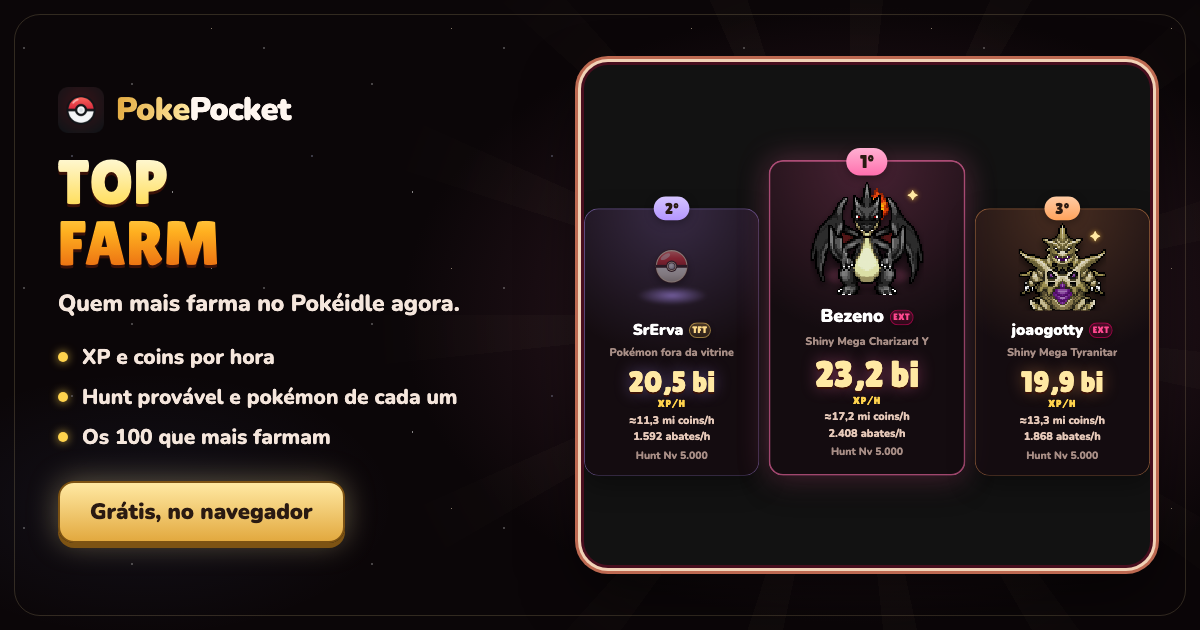
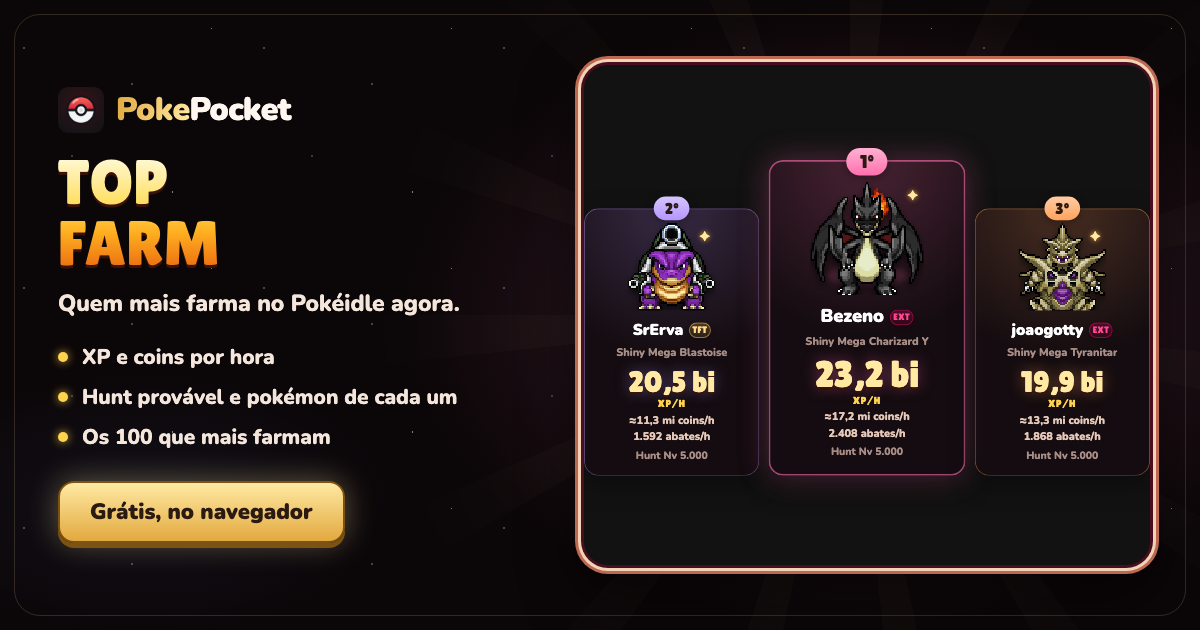
feat(farm): pokémon que farma também pelo time de PvP do perfil, sem nenhum fora da lista

Changed region(s): [[0.5242, 0.3619, 0.6167, 0.5127], [0.4933, 0.5429, 0.6167, 0.573]]

diff --git a/farm/farm.js b/farm/farm.js
@@ -96,9 +96,9 @@ function linha(j, i, maxXp) {
       el('span', { class: 'farm-nome' }, [el('strong', { class: 'pos-nick' }, [el('span', { text: j.nick })]), guildTag(j.guild)]),
       el('small', { class: 'farm-sub' }, ehNum(j.nivel) ? [el('span', { class: 'farm-longo', text: 'Treinador ' }), `Nv ${fmt.format(j.nivel)}`] : [])
     ]),
-    el('span', { class: 'farm-pk', title: pk ? '' : 'O pokémon que está farmando não está na vitrine do perfil' }, [
+    el('span', { class: 'farm-pk', title: pk ? '' : 'O pokémon que está farmando não aparece na vitrine nem no time de PvP do perfil' }, [
       el('span', { class: 'farm-pk-img' }, [pk ? sprite(pk) : el('img', { class: 'bola', src: BOLA, alt: '' }), pk?.shiny ? el('i', { class: 'farm-shiny', 'aria-hidden': 'true', text: '✦' }) : null]),
-      el('span', { class: 'farm-pk-txt' }, [el('b', { text: pk ? `${pk.shiny ? 'Shiny ' : ''}${pk.nome}` : 'Fora da vitrine' }), el('small', { text: pk && ehNum(pk.nivel) ? `Nv ${fmt.format(pk.nivel)}` : 'não aparece no perfil' })])
+      el('span', { class: 'farm-pk-txt' }, [el('b', { text: pk ? `${pk.shiny ? 'Shiny ' : ''}${pk.nome}` : 'Não exposto' }), el('small', { text: pk && ehNum(pk.nivel) ? `Nv ${fmt.format(pk.nivel)}` : 'não aparece no perfil' })])
     ]),
     el('span', { class: `farm-num xp${ordem === 'xph' ? ' ativo' : ''}`, title: `${fmt.format(Math.round(j.xph))} XP por hora (medido)` }, [el('small', { text: 'XP/h' }), el('b', { text: curto(j.xph) }), el('i', { class: 'farm-barra', style: `--p:${Math.max(0.04, j.xph / maxXp)}` })]),
     el('span', { class: `farm-num coins${ordem === 'coinsh' ? ' ativo' : ''}`, title: ehNum(j.coinsh) ? `${fmt.format(Math.round(j.coinsh))} coins por hora (estimado pela hunt)` : 'Sem estimativa' }, [el('small', { text: 'Coins/h' }), el('b', { text: ehNum(j.coinsh) ? `≈${curto(j.coinsh)}` : '—' })]),
@@ -119,7 +119,7 @@ function podio(ord) {
       el('span', { class: 'pod-lugar', text: `${i + 1}º` }),
       el('span', { class: 'pod-pk' }, [el('i', { class: 'pod-luz', 'aria-hidden': 'true' }), pk ? sprite(pk) : el('img', { class: 'bola', src: BOLA, alt: '' }), pk?.shiny ? el('i', { class: 'farm-shiny', 'aria-hidden': 'true', text: '✦' }) : null]),
       el('span', { class: 'pod-nome' }, [el('strong', { class: 'pos-nick' }, [el('span', { text: j.nick })]), guildTag(j.guild)]),
-      el('small', { class: 'pod-pkn', text: pk ? `${pk.shiny ? 'Shiny ' : ''}${pk.nome}` : 'Pokémon fora da vitrine' }),
+      el('small', { class: 'pod-pkn', text: pk ? `${pk.shiny ? 'Shiny ' : ''}${pk.nome}` : 'Pokémon não exposto' }),
       el('b', { class: 'pod-valor' }, [valor(j), el('small', { text: rot })]),
       el('span', { class: 'pod-mini' }, mini.map((t) => el('span', { text: t }))),
       el('span', { class: 'pod-hunt', text: ehNum(j.hunt) ? `Hunt Nv ${fmt.format(j.hunt)}` : '' })
@@ -143,7 +143,7 @@ function pintar() {
     el('div', { class: 'ex-cab' }, [el('b', { text: 'Como o top farm é medido' })]),
     el('div', { class: 'ex-grade' }, [
       bloco('⚡', 'XP e abates por hora', 'Medidos: diferença entre duas leituras do perfil público.'),
-      bloco('◎', 'Pokémon', 'O da vitrine que ganhou XP no intervalo.'),
+      bloco('◎', 'Pokémon', 'O da vitrine ou do time de PvP que ganhou XP no intervalo.'),
       bloco('⌖', 'Hunt provável', 'Faixa de nível pelo XP de cada abate; o jogo não mostra a hunt.'),
       bloco('$', 'Coins por hora', 'Estimadas pela faixa da hunt e pelos abates por hora.')
     ])

diff --git a/farm/index.html b/farm/index.html
@@ -12,12 +12,12 @@
   <meta property="og:title" content="Top farm · PokePocket" />
   <meta property="og:description" content="Os 100 jogadores que mais estão farmando agora, com XP/h, coins/h, hunt e pokémon" />
   <meta property="og:url" content="https://iampiscis.github.io/pokepocket/farm/" />
-  <meta property="og:image" content="https://iampiscis.github.io/pokepocket/assets/previa-farm.png?v=202611280024" />
+  <meta property="og:image" content="https://iampiscis.github.io/pokepocket/assets/previa-farm.png?v=202611280034" />
   <meta property="og:image:width" content="1200" />
   <meta property="og:image:height" content="630" />
   <meta property="og:image:alt" content="Top farm no PokePocket: os jogadores que mais estão farmando no Pokéidle" />
   <meta name="twitter:card" content="summary_large_image" />
-  <meta name="twitter:image" content="https://iampiscis.github.io/pokepocket/assets/previa-farm.png?v=202611280024" />
+  <meta name="twitter:image" content="https://iampiscis.github.io/pokepocket/assets/previa-farm.png?v=202611280034" />
   <link rel="icon" href="../assets/icone.png" />
   <link rel="stylesheet" href="../assets/ferramentas.css" />
   <script src="../assets/ferramentas.js" defer></script>
@@ -26,7 +26,7 @@
   <link rel="stylesheet" href="../tier/tier.css" />
   <link rel="stylesheet" href="../posicionamento/posicionamento.css?v=20261127d" />
   <link rel="stylesheet" href="farm.css?v=7" />
-  <script type="module" src="farm.js?v=3"></script>
+  <script type="module" src="farm.js?v=4"></script>
 </head>
 <body>
   <div class="ceu" aria-hidden="true"></div>
